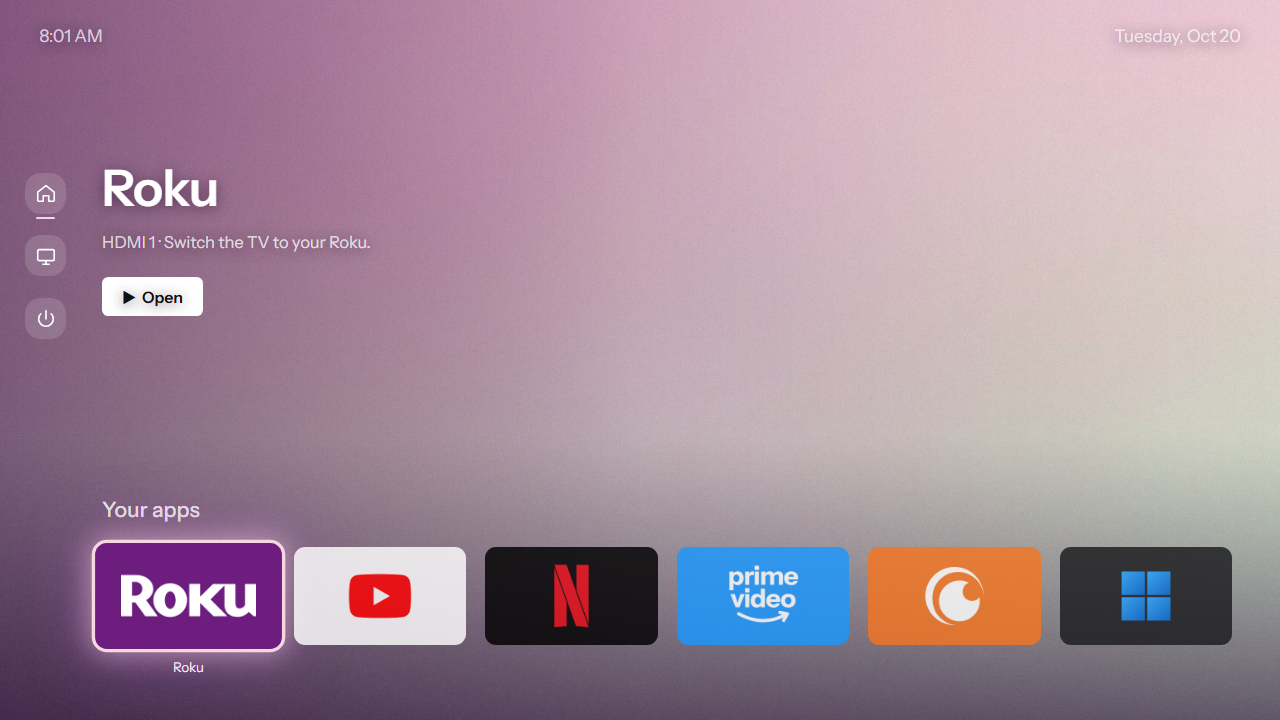
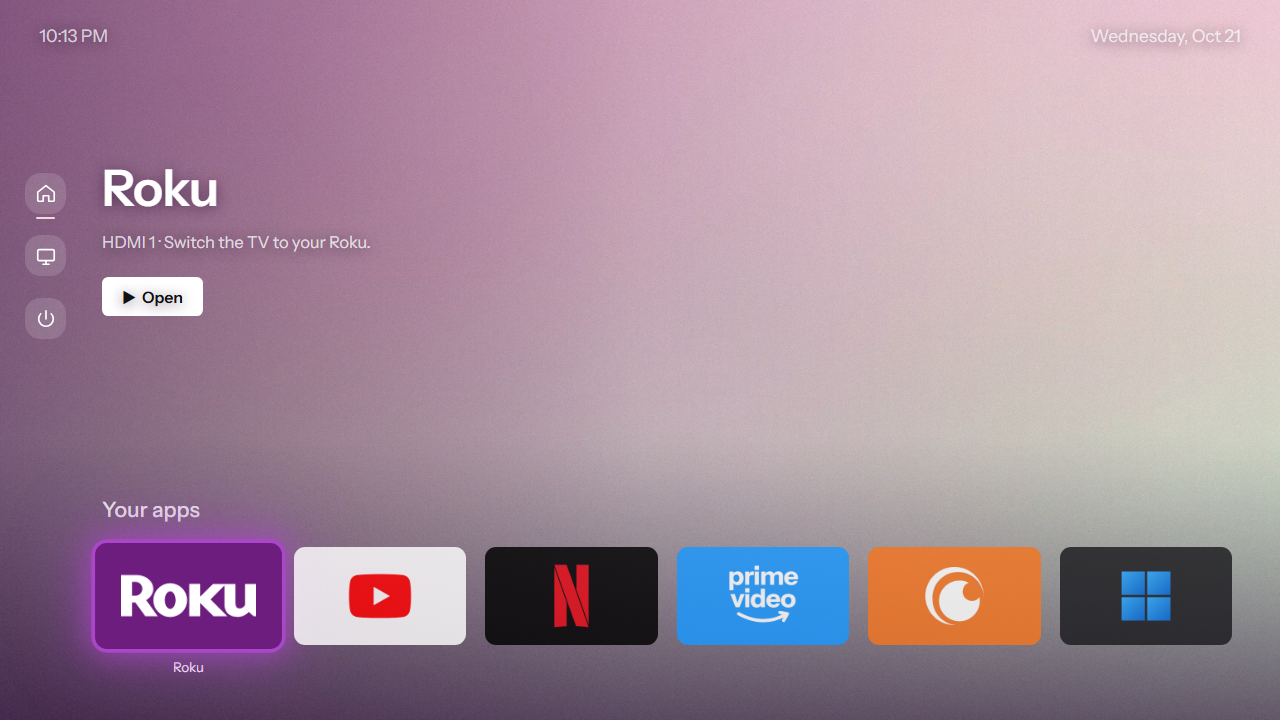
Power toggle with Wake-on-LAN; Sony menu usable over tvui; brand-colored focus
- Phone remote power is a toggle: off turns TV and soundbar off; when the TV is
  off it sends Wake-on-LAN to the TV (needs Remote Start) plus soundbar power on
- Opening the Sony menu pauses Roku policing and the home-screen Back block, so
  Settings can be navigated (it showed the Roku behind it and got pulled back)
- Focused tile ring and glow use the app's own color again (blush read as white)

Changed region(s): [[0.0625, 0.7333, 0.25, 0.9167], [0.8438, 0.0306, 0.9688, 0.0611], [0.0312, 0.0306, 0.0938, 0.0611]]

diff --git a/src/tvui/static/index.html b/src/tvui/static/index.html
@@ -46,7 +46,7 @@
     line-height: 6.24rem; font-size: 1.6rem; font-weight: 700; letter-spacing: -.03rem;
     background-size: cover; background-position: center; opacity: .82;
     -webkit-transition: -webkit-transform .18s, opacity .18s; transition: transform .18s, opacity .18s; }
-  /* Focused: lift, blush ring, pink glow tinged with the app's color */
+  /* Focused: lift, plus a ring and glow in the app's own color (set in draw()) */
   .cell.on .tile { opacity: 1; -webkit-transform: scale(1.08); transform: scale(1.08); }
   .cap { margin-top: .9rem; font-size: .85rem; color: rgba(255,255,255,.75); visibility: hidden; }
   .cell.on .cap { visibility: visible; color: #fff; }
@@ -138,7 +138,7 @@ function draw() {
     var on = !inSide && i === sel, h = brand(tiles[i].name).halo, t = n[i].firstChild;
     n[i].className = "cell" + (on ? " on" : "");
     t.style.boxShadow = t.style.webkitBoxShadow = on
-      ? "0 0 0 .2rem #F6D6E1, 0 0 1.6rem .35rem rgba(246,214,225,.5), 0 0 3.6rem 1rem rgba(" + h + ",.28)" : "none";
+      ? "0 0 0 .22rem rgb(" + h + "), 0 0 1.6rem .4rem rgba(" + h + ",.65), 0 0 4rem 1.2rem rgba(" + h + ",.35)" : "none";
   }
   for (var j = 0; j < side.length; j++)
     side[j].className = (j === 0 ? "cur" : "") + (inSide && j === sideSel ? " on" : "");

diff --git a/src/tvui/static/remote.html b/src/tvui/static/remote.html
@@ -100,7 +100,7 @@
   </div>
 
   <div class="row">
-    <button class="pill power" data-k="PowerOff" aria-label="Power off"><svg viewBox="0 0 24 24"><path d="M12 3.5v8M6.6 6.8a7.5 7.5 0 1 0 10.8 0"/></svg></button>
+    <button class="pill power" data-k="Power" aria-label="Power"><svg viewBox="0 0 24 24"><path d="M12 3.5v8M6.6 6.8a7.5 7.5 0 1 0 10.8 0"/></svg></button>
     <button class="pill" data-k="Options" aria-label="Options"><svg viewBox="0 0 24 24" style="stroke-width:2.8"><path d="M12 4v16M5.1 8l13.8 8M5.1 16l13.8-8"/></svg></button>
   </div>
 

diff --git a/src/tvui/server.py b/src/tvui/server.py
@@ -10,7 +10,7 @@ from urllib.parse import parse_qs, urlparse
 
 from tvui import config
 from tvui.soundbar import VizioSoundbar, find_soundbars
-from tvui.sony import IRCC, TV, discover, find_roku, roku_active_app, roku_input as roku_send_input, roku_key, roku_launch
+from tvui.sony import IRCC, TV, discover, wake, find_roku, roku_active_app, roku_input as roku_send_input, roku_key, roku_launch
 
 # Remote buttons that go to the Roku while the TV shows its input.
 # Volume, mute and power always stay with the TV.
@@ -99,6 +99,9 @@ def make_handler(cfg, tv):
     # TV got to the Roku: "free" (Roku tile: use the Roku as you like), "app" (an app
     # tile: leaving the app comes back to tvui) or None (any other way: back to tvui).
     roku = {"mode": None, "app_seen": False, "since": 0.0}
+    # While the Sony menu is open the TV shows its last input (often the Roku) behind it;
+    # don't treat that as wandering onto the Roku. Every key press there extends this.
+    sony_menu = {"until": 0.0}
 
     bounces = []
 
@@ -132,6 +135,8 @@ def make_handler(cfg, tv):
     def police_roku():
         if not cfg.get("roku_relay") or roku_input() is None or not watching["tv_on"]:
             return
+        if time.time() < sony_menu["until"]:
+            return  # someone is in the Sony menu; leave the TV alone
         recent = time.time() - roku["since"] < 6  # the TV reports its old input for a moment
         if watching["uri"] != roku_input():
             if roku["mode"] and not recent:
@@ -189,6 +194,7 @@ def make_handler(cfg, tv):
     # On the tvui home screen, Back would close the page (the TV's web runtime treats it
     # as "exit app") and Options opens the Sony menu over it; neither is ever wanted there.
     HOME_IGNORED = {"Return", "Options"}
+    # ...except while the Sony menu is open over it (see sony_menu), where Back navigates.
 
     # A Vizio soundbar on the TV's optical out ignores the TV's volume, so volume and
     # mute go to it directly; power follows the TV.
@@ -207,7 +213,27 @@ def make_handler(cfg, tv):
             config.save(cfg)
             VizioSoundbar(found[0]).key(name)
 
+    def power_toggle():
+        """The remote's power button: off when the TV is on, wake everything when it's off."""
+        if tv.power_quick(timeout=3) == "active":
+            press("PowerOff")
+            return
+        if cfg.get("tv_mac"):
+            wake(cfg["tv_mac"])
+        try:  # with Remote Start on, the TV's API stays up in standby and can power it on
+            tv.rpc("system", "setPowerStatus", [{"status": True}])
+        except Exception:
+            pass
+        if cfg.get("soundbar"):
+            try:
+                bar_key("PowerOn")
+            except Exception as e:
+                print(f"soundbar: couldn't power on: {e}", flush=True)
+
     def press(name):
+        if name == "Power":
+            power_toggle()
+            return
         if cfg.get("soundbar") and name in BAR_KEYS:
             bar_key(name)
             return
@@ -216,7 +242,9 @@ def make_handler(cfg, tv):
                 bar_key("PowerOff")
             except Exception as e:
                 print(f"soundbar: couldn't power off: {e}", flush=True)
-        if name in HOME_IGNORED and watching["home"]:
+        if (name == "Home" and not watching_roku()) or time.time() < sony_menu["until"]:
+            sony_menu["until"] = time.time() + 90
+        if name in HOME_IGNORED and watching["home"] and time.time() > sony_menu["until"]:
             return
         if name == "PlayPause":
             # The Roku's Play key is a real toggle; the TV has none, so alternate.
@@ -294,7 +322,7 @@ def make_handler(cfg, tv):
                 return self._send(200, json.dumps(tiles))
             if url.path not in ("/api/tile", "/api/key", "/api/home"):
                 return self._send(404, '{"error":"not found"}')
-            if url.path == "/api/key" and q.get("name") not in IRCC and q.get("name") != "PlayPause":
+            if url.path == "/api/key" and q.get("name") not in IRCC and q.get("name") not in ("PlayPause", "Power"):
                 return self._send(400, '{"error":"unknown key"}')
             if url.path == "/api/key":
                 keys.put(q["name"])

diff --git a/src/tvui/sony.py b/src/tvui/sony.py
@@ -31,6 +31,25 @@ IRCC = {
 }
 
 
+def wake(mac):
+    """Wake-on-LAN magic packet, sent to every local subnet's broadcast. The TV only
+    listens for it in standby with "Remote Start" on (and most reliably when wired)."""
+    payload = bytes([0xFF] * 6) + bytes.fromhex(mac.replace(":", "").replace("-", "")) * 16
+    addrs = {a[4][0] for a in socket.getaddrinfo(socket.gethostname(), None, socket.AF_INET)}
+    targets = {"255.255.255.255"} | {a.rsplit(".", 1)[0] + ".255" for a in addrs if not a.startswith("127.")}
+    s = socket.socket(socket.AF_INET, socket.SOCK_DGRAM)
+    s.setsockopt(socket.SOL_SOCKET, socket.SO_BROADCAST, 1)
+    try:
+        for t in targets:
+            for port in (9, 7):
+                try:
+                    s.sendto(payload, (t, port))
+                except OSError:
+                    pass
+    finally:
+        s.close()
+
+
 def discover(timeout=4, pattern=r"SERVER:.*?(K[DL]{1,2}-\w+|XBR-\w+)"):
     """Return [(ip, model)] for devices whose SSDP reply matches pattern (default: Sony TVs)."""
     msg = ("M-SEARCH * HTTP/1.1\r\nHOST: 239.255.255.250:1900\r\n"
